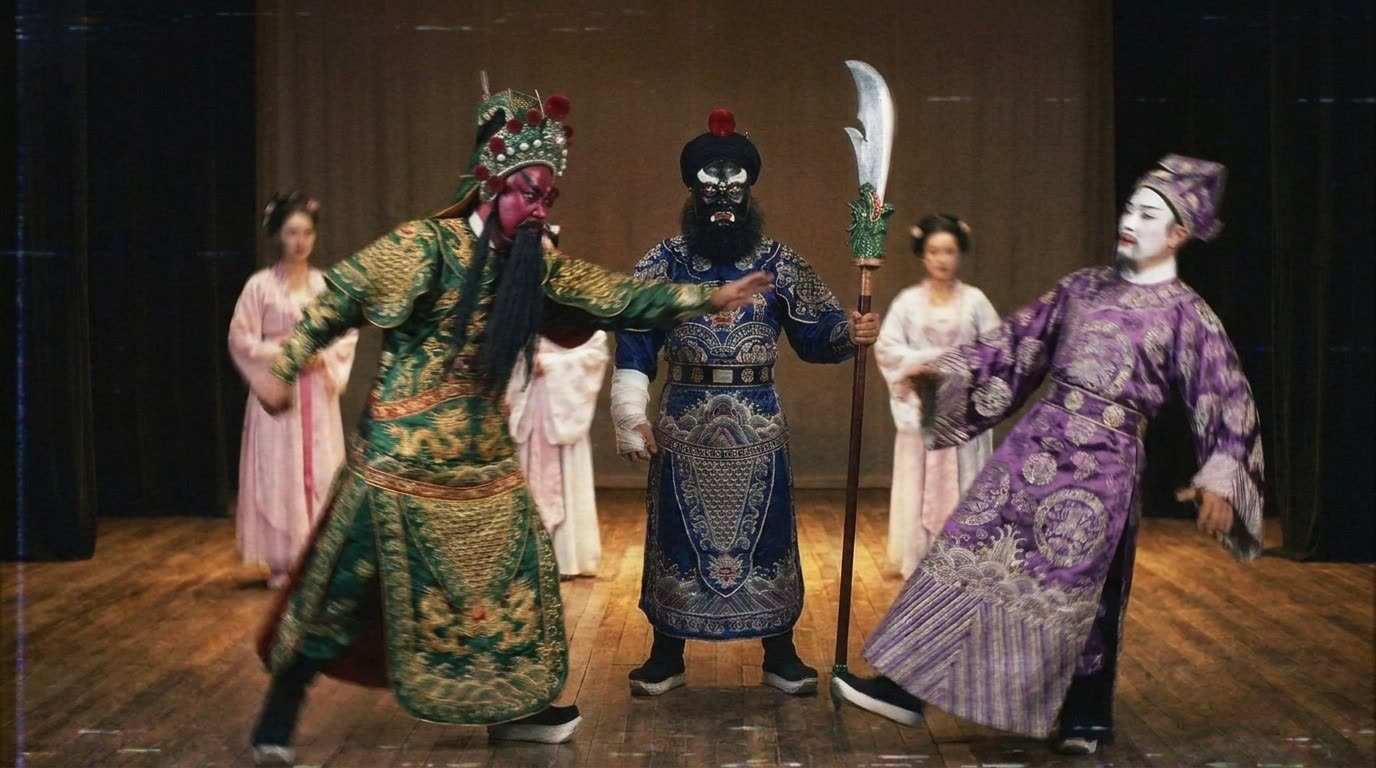
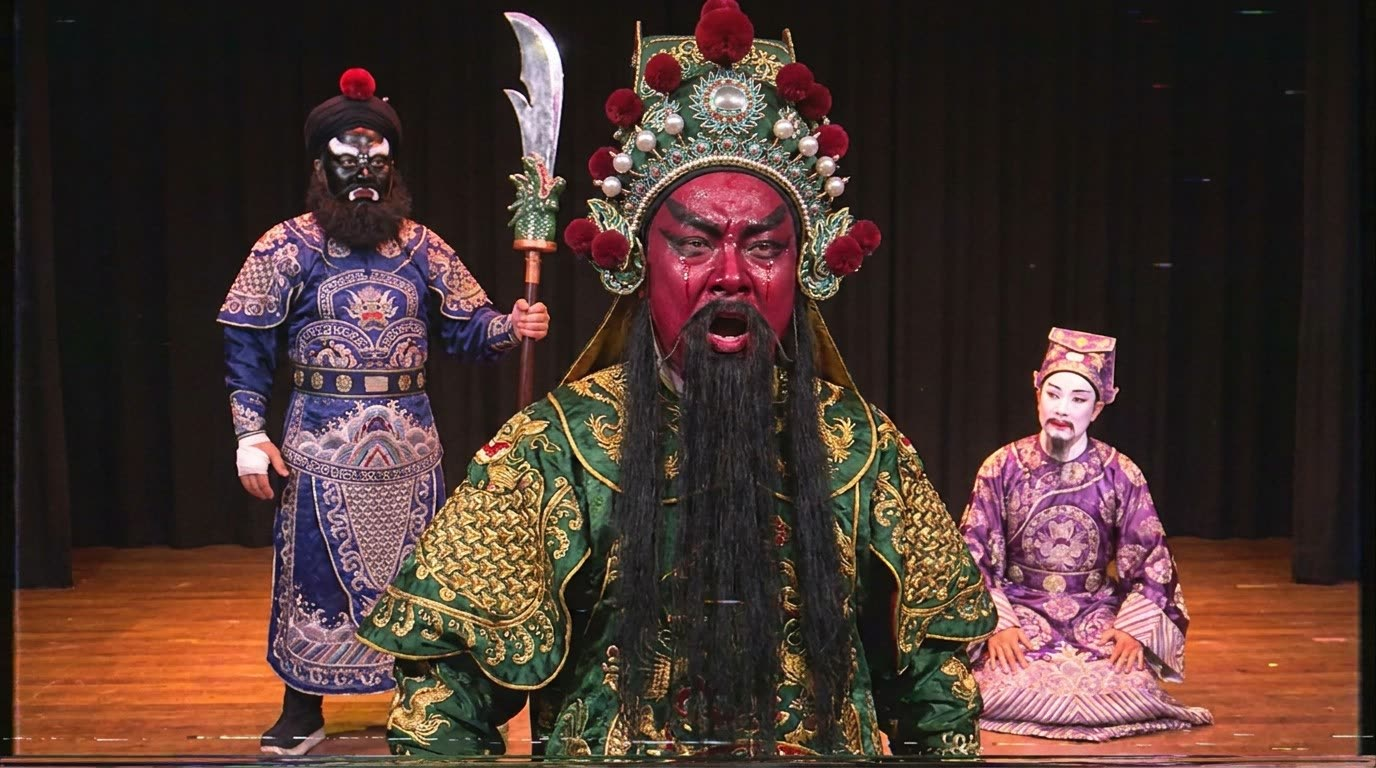
Case 02 pictures: act 3, the collapse, the wing ghost, the dressing room, the dog
Dressing-room hotspots moved onto the objects of the real photo.

Claude-Session: https://claude.ai/code/session_01HgaLN46Ymcpov6EzSCnAsm

diff --git a/cases/02/media.js b/cases/02/media.js
@@ -305,14 +305,14 @@ export function vhs(el, id) {
 
 // ---------------------------------------------------------------- the buồng trò, clickable spots
 const SPOTS = [
-  { id: "ban_to", x: 50, y: 38, label: "Bàn Tổ", text: "Bàn Tổ kê cao ngang ngực. Ba chung trà sứ men lam đặt hàng ngang. Hai chung hai bên đã cạn. <b>Chung ở giữa</b> còn lớp cặn bột màu xám dính đáy, đã niêm phong gửi giám định. Bát nhang, đĩa trầu cau, hai cây đèn dầu đã tắt." },
-  { id: "heo", x: 36, y: 45, label: "Đầu heo quay", text: "Đầu heo quay cúng Tổ từ chiều 27. Mới một đêm đã bốc mùi tanh lợm. Hai hốc mắt lúc nhúc dòi trắng, da quay phồng rộp, nhớt chảy thành vệt xuống mâm. Cán bộ ghi: “dòi nhiều bất thường, như để cả tuần”." },
-  { id: "ban_ve", x: 18, y: 60, label: "Bàn vẽ mặt", text: "Mỗi kép một dĩa màu dán tên. <b>Kiệt</b>: đỏ, đen, đã dùng. <b>Thông</b>: đen, trắng, đã dùng. <b>Lợi</b>: trắng mốc, đã dùng. <b>Tư Hòa</b>: trắng, hồng (vai lính cờ), đã dùng; <b>màu đen cũng đã dùng gần hết</b>. Theo trình tự đêm diễn, tối đó Hòa không có vai mặt đen nào." },
-  { id: "ruong", x: 76, y: 64, label: "Rương Tổ", text: "Rương gỗ lim, khóa đồng gỉ sét. Theo ông Sáu Bé, trong rương là bộ áo Quan Công năm 1963, không ai mở từ ba chục năm nay. Chìa khóa ông đeo ở cổ. Ổ khóa còn nguyên, không có dấu cạy." },
-  { id: "chieu", x: 86, y: 84, label: "Chiếc chiếu trong góc", text: "Chiếu và mền của bé Thủy. Từ chỗ nằm nhìn thẳng ra bàn Tổ và cánh cửa sau. Mền ướt đẫm mồ hôi." },
-  { id: "cua_sau", x: 94, y: 40, label: "Cửa sau", text: "Cửa liếp mở ra cầu ao. Bản lề kêu kẽo kẹt. Dưới chân cầu ao: <b>một chiếc khăn vải dính màu đen và vệt phấn trắng</b>, chưa ai nhận là của mình. Trên ván cầu có dấu bàn chân trần, bùn đã khô." },
-  { id: "dao", x: 64, y: 28, label: "Cây đao", text: "Thanh Long đao của Quan Công, dựng vào vách. Cán gỗ có vết cào bằng móng tay, bết son đỏ." },
-  { id: "guong", x: 14, y: 30, label: "Tấm gương", text: "Tấm gương soi vẽ mặt, viền gỗ, tráng thủy đã loang lổ. Trong gương chỉ thấy phản chiếu của căn buồng." },
+  { id: "ban_to", x: 43, y: 38, label: "Bàn Tổ", text: "Bàn Tổ kê cao ngang ngực. Ba chung trà sứ men lam đặt hàng ngang. Hai chung hai bên đã cạn. <b>Chung ở giữa</b> còn lớp cặn bột màu xám dính đáy, đã niêm phong gửi giám định. Bát nhang, đĩa trầu cau, hai cây đèn dầu đã tắt." },
+  { id: "heo", x: 34, y: 60, label: "Đầu heo quay", text: "Đầu heo quay cúng Tổ từ chiều 27. Mới một đêm đã bốc mùi tanh lợm. Hai hốc mắt lúc nhúc dòi trắng, da quay phồng rộp, nhớt chảy thành vệt xuống mâm. Cán bộ ghi: “dòi nhiều bất thường, như để cả tuần”." },
+  { id: "ban_ve", x: 21, y: 86, label: "Bàn vẽ mặt", text: "Mỗi kép một dĩa màu dán tên. <b>Kiệt</b>: đỏ, đen, đã dùng. <b>Thông</b>: đen, trắng, đã dùng. <b>Lợi</b>: trắng mốc, đã dùng. <b>Tư Hòa</b>: trắng, hồng (vai lính cờ), đã dùng; <b>màu đen cũng đã dùng gần hết</b>. Theo trình tự đêm diễn, tối đó Hòa không có vai mặt đen nào." },
+  { id: "ruong", x: 67, y: 66, label: "Rương Tổ", text: "Rương gỗ lim, khóa đồng gỉ sét. Theo ông Sáu Bé, trong rương là bộ áo Quan Công năm 1963, không ai mở từ ba chục năm nay. Chìa khóa ông đeo ở cổ. Ổ khóa còn nguyên, không có dấu cạy." },
+  { id: "chieu", x: 89, y: 90, label: "Chiếc chiếu trong góc", text: "Chiếu và mền của bé Thủy. Từ chỗ nằm nhìn thẳng ra bàn Tổ và cánh cửa sau. Mền ướt đẫm mồ hôi." },
+  { id: "cua_sau", x: 86, y: 42, label: "Cửa sau", text: "Cửa liếp mở ra cầu ao. Bản lề kêu kẽo kẹt. Dưới chân cầu ao: <b>một chiếc khăn vải dính màu đen và vệt phấn trắng</b>, chưa ai nhận là của mình. Trên ván cầu có dấu bàn chân trần, bùn đã khô." },
+  { id: "dao", x: 58, y: 20, label: "Cây đao", text: "Thanh Long đao của Quan Công, dựng vào vách. Cán gỗ có vết cào bằng móng tay, bết son đỏ." },
+  { id: "guong", x: 10, y: 36, label: "Tấm gương", text: "Tấm gương soi vẽ mặt, viền gỗ, tráng thủy đã loang lổ. Trong gương chỉ thấy phản chiếu của căn buồng." },
 ];
 
 export function room(el) {

diff --git a/index.html b/index.html
@@ -13,7 +13,7 @@
   <link rel="preconnect" href="https://fonts.googleapis.com">
   <link rel="preconnect" href="https://fonts.gstatic.com" crossorigin>
   <link href="https://fonts.googleapis.com/css2?family=Noto+Serif:ital,wght@0,400;0,700;1,400&family=IBM+Plex+Mono:wght@400;700&family=Patrick+Hand&family=Dancing+Script:wght@500;700&family=Oswald:wght@500;700&display=swap" rel="stylesheet">
-  <link rel="stylesheet" href="css/style.css?v=10">
+  <link rel="stylesheet" href="css/style.css?v=11">
 </head>
 <body data-dread="0" data-screen="cover">
   <div id="cover"></div>
@@ -53,6 +53,6 @@
   <div id="dialog" hidden></div>
   <div id="toast" role="status"></div>
   <noscript>Trò chơi cần bật JavaScript.</noscript>
-  <script type="module" src="js/main.js?v=10"></script>
+  <script type="module" src="js/main.js?v=11"></script>
 </body>
 </html>
